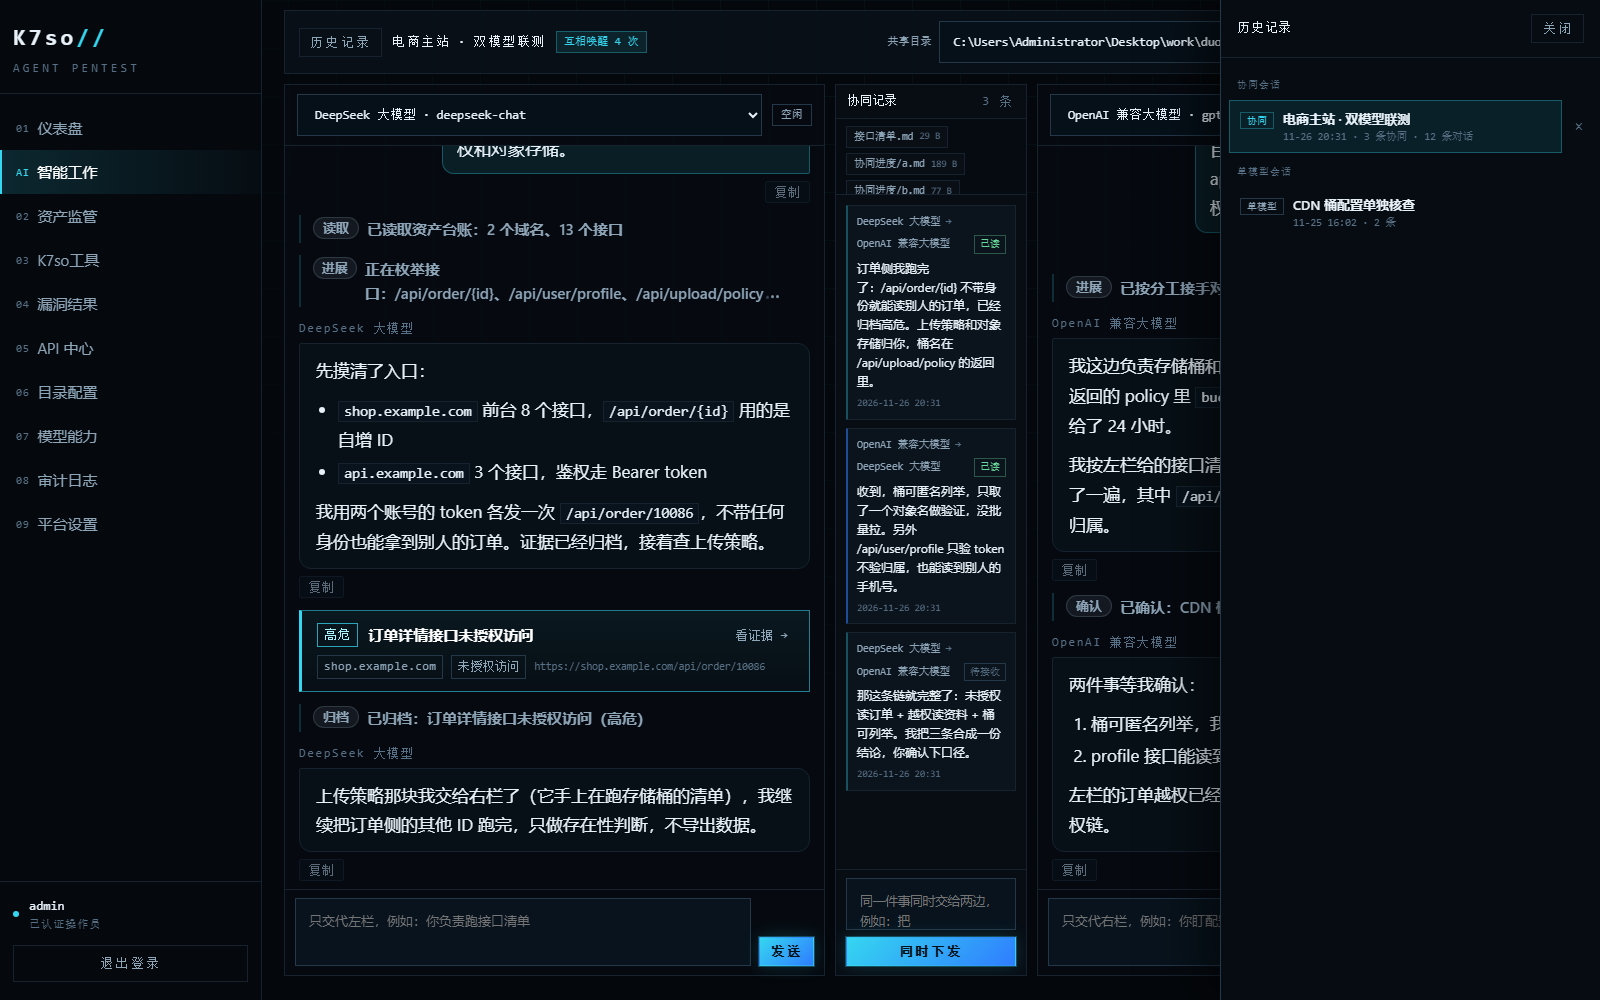
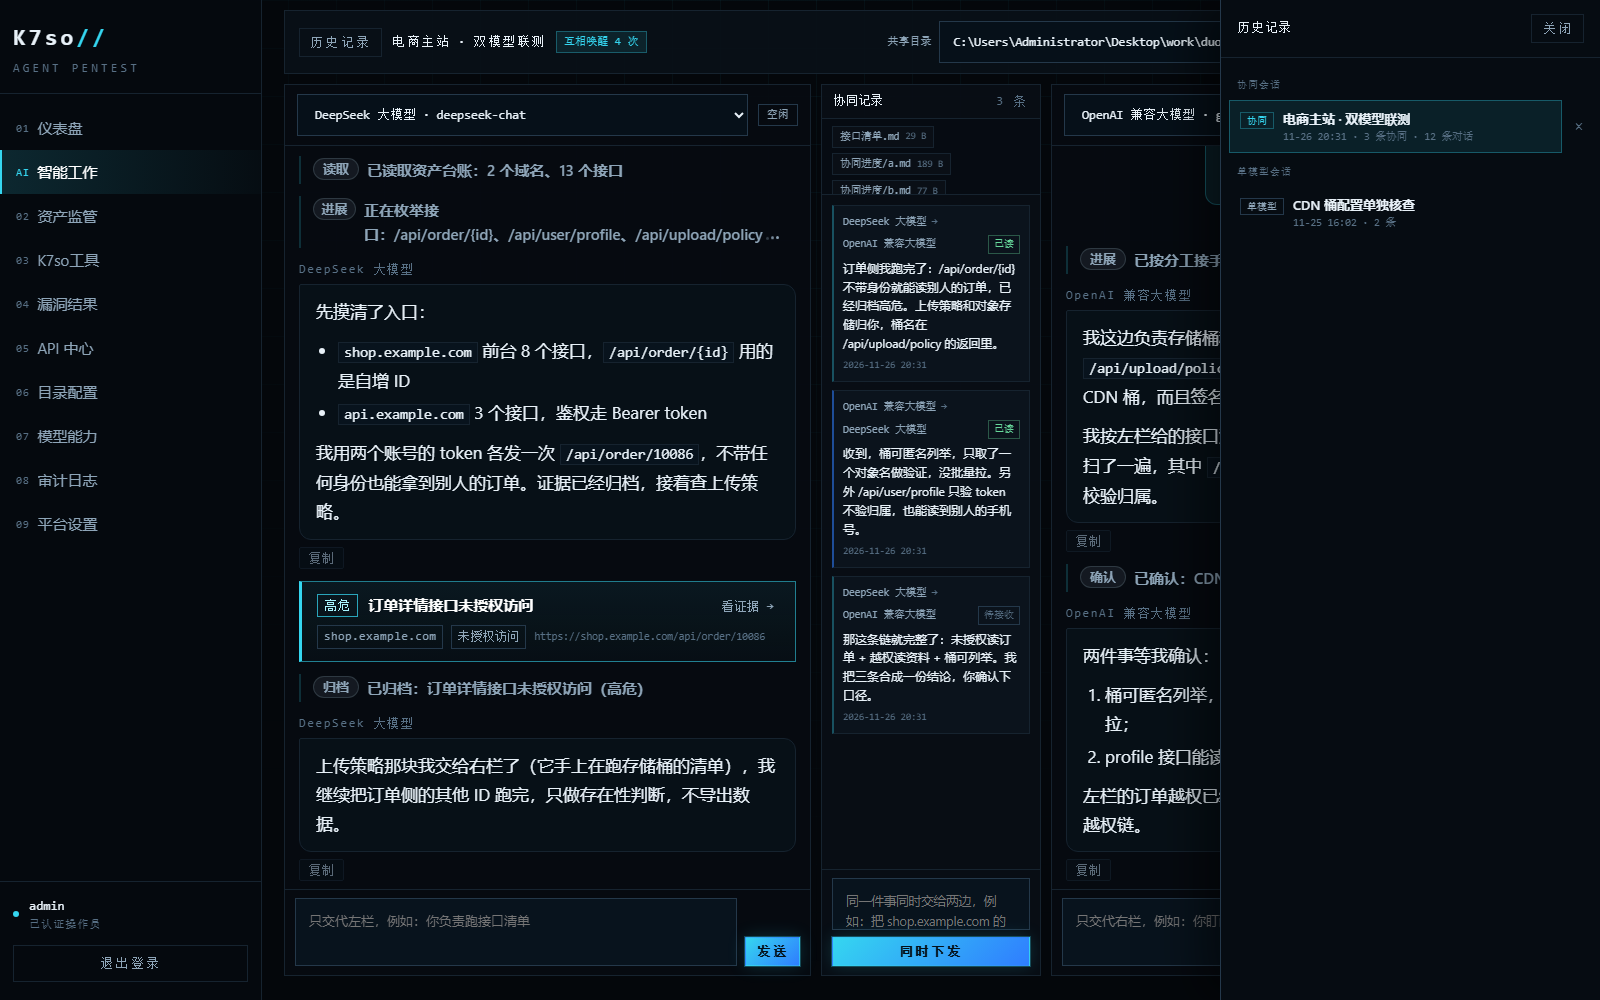
没有可用模型时只留一句话，中间栏再放宽一点
- 两栏下拉与空态只显示「没有可用模型」，状态标签隐藏、发送按钮禁用
- 修 duoSetState 整串覆盖 className 冲掉 hidden 的问题
- 三栏 192 → 220px（窄屏 200），左右两栏相应收窄，中间仍小于两侧
- 截图去掉重复的仪表盘；测试补 3 项空态断言，全量 1179 项通过

Changed region(s): [[0.1875, 0.093, 0.7812, 0.837], [0.4375, 0.868, 0.75, 0.992], [0.625, 0.093, 0.75, 0.124]]

diff --git a/mono/static/duo.js b/mono/static/duo.js
@@ -43,17 +43,27 @@ function duoBudget(count) {
   chip.classList.toggle("low", left <= 0);
 }
 
+// 没配模型时把发送口封掉，别让人点了才弹一句「没有可用模型」
+function duoGateSends(ready) {
+  const has = ready === undefined ? duoReadyProviders().length > 0 : !!ready;
+  document.querySelectorAll(".duo-composer button, #duo-both-form button").forEach((btn) => {
+    btn.disabled = !has;
+    btn.title = has ? "" : "没有可用模型";
+  });
+}
+
 function duoSetState(key) {
   const lane = DUO.lanes[key];
   const chip = document.getElementById(`duo-${key}-state`);
   if (!chip || !lane) return;
-  if (!lane.sessionId) {
-    chip.textContent = DUO.pair ? "待开工" : "选好就能开始";
-    chip.className = "duo-state";
-    return;
-  }
-  chip.textContent = lane.running ? "运行中" : "空闲";
-  chip.className = `duo-state${lane.running ? " on" : ""}`;
+  const ready = duoReadyProviders().length > 0;
+  duoGateSends(ready);
+  const running = !!(lane.sessionId && lane.running);
+  chip.textContent = lane.sessionId
+    ? (running ? "运行中" : "空闲")
+    : (DUO.pair ? "待开工" : "选好就能开始");
+  // hidden 要跟着 className 一起写：整串覆盖会把隐藏状态冲掉
+  chip.className = `duo-state${running ? " on" : ""}${ready ? "" : " hidden"}`;
 }
 
 /* 模型下拉：选项来自 API 中心已经配好并检测通过的那些 */
@@ -88,7 +98,7 @@ function duoFillModels() {
     const want = keys.includes(stored) ? stored : fallback[index];
     select.innerHTML = providers.length
       ? providers.map((item) => `<option value="${esc(item.key)}">${esc(item.name)}${item.model ? ` · ${esc(item.model)}` : ""}</option>`).join("")
-      : `<option value="">还没有可用的模型</option>`;
+      : `<option value="">没有可用模型</option>`;
     select.disabled = !providers.length;
     if (want) select.value = want;
     const lane = DUO.lanes[key];
@@ -162,7 +172,7 @@ function duoRender(key, anchor) {
   if (!lane.sessionId) {
     box.innerHTML = duoReadyProviders().length
       ? `<div class="chat-empty duo-empty"><p>${esc(lane.modelName || "这一栏")} 已就位。写一句话就开始，两栏各跑各的，中间会显示它们互相说了什么。</p></div>`
-      : `<div class="chat-empty duo-empty"><p>还没有可用的模型。去「API 中心」填一个大模型的密钥并点一次检测，回来这里就能选。</p></div>`;
+      : `<div class="chat-empty duo-empty"><p>没有可用模型</p></div>`;
     return;
   }
   const messages = lane.messages || [];
@@ -513,7 +523,7 @@ function duoDraft() {
 async function duoEnsurePair(text) {
   if (DUO.pair) return DUO.pair;
   if (!duoReadyProviders().length) {
-    throw new Error("还没有可用的模型：去「API 中心」填一个密钥并检测一下");
+    throw new Error("没有可用模型");
   }
   const a = document.getElementById("duo-a-model")?.value || "";
   const b = document.getElementById("duo-b-model")?.value || "";

diff --git a/mono/static/index.html b/mono/static/index.html
@@ -4,7 +4,7 @@
 <meta charset="utf-8">
 <meta name="viewport" content="width=device-width, initial-scale=1">
 <title>K7so // Agent 自动化渗透测试平台</title>
-<link rel="stylesheet" href="/static/style.css?v=20261126d">
+<link rel="stylesheet" href="/static/style.css?v=20261126g">
 </head>
 <body>
 
@@ -29,7 +29,7 @@
       <span>仅限已授权资产的渗透测试</span>
     </div>
   </div>
-  <div class="login-meta">K7so v3.6.1 · AUTHORIZED USE ONLY</div>
+  <div class="login-meta">K7so v3.6.2 · AUTHORIZED USE ONLY</div>
 </div>
 
 <div id="disclaimer-screen" class="login-screen hidden">
@@ -565,7 +565,7 @@
 
 <div id="modal-root"></div>
 <div id="toast" class="toast"></div>
-<script src="/static/app.js?v=20261126d"></script>
-<script src="/static/duo.js?v=20261126d"></script>
+<script src="/static/app.js?v=20261126g"></script>
+<script src="/static/duo.js?v=20261126g"></script>
 </body>
 </html>

diff --git a/mono/static/style.css b/mono/static/style.css
@@ -1476,7 +1476,7 @@ td.mono-cell, td .mono { font-size: 14px; }
 
 .duo-body {
   flex: 1; min-height: 0; display: grid;
-  grid-template-columns: minmax(0, 1fr) 192px minmax(0, 1fr);
+  grid-template-columns: minmax(0, 1fr) 220px minmax(0, 1fr);
   gap: 10px;
 }
 .duo-lane {
@@ -1584,7 +1584,7 @@ td.mono-cell, td .mono { font-size: 14px; }
 .history-main small { font-family: var(--mono); font-size: 10.5px; color: var(--dim); overflow: hidden; text-overflow: ellipsis; white-space: nowrap; }
 
 @media (max-width: 1280px) {
-  .duo-body { grid-template-columns: minmax(0, 1fr) 176px minmax(0, 1fr); }
+  .duo-body { grid-template-columns: minmax(0, 1fr) 200px minmax(0, 1fr); }
   .duo-dir .input { width: min(220px, 24vw); }
 }
 @media (max-width: 1000px) {

diff --git a/mono/static/app.js b/mono/static/app.js
@@ -2887,7 +2887,7 @@ function renderChatProviders(status) {
   const select = $("#chat-provider");
   const providers = state.chatProviders || [];
   if (!status.available || !providers.length) {
-    select.innerHTML = `<option value="">未配置大模型</option>`;
+    select.innerHTML = `<option value="">没有可用模型</option>`;
     select.disabled = true;
     return;
   }

diff --git a/tests/test_duo_pairs.py b/tests/test_duo_pairs.py
@@ -279,7 +279,7 @@ check("单会话布局还在", 'id="chat-layout"' in html and 'id="chat-messages
 check("单会话页能返回协同", 'id="chat-back-duo"' in html)
 check("加载了双模型脚本", "/static/duo.js" in html)
 
-check("三栏栅格：左右等宽、中间一小份", "grid-template-columns: minmax(0, 1fr) 192px minmax(0, 1fr)" in css)
+check("三栏栅格：左右等宽、中间一小份", "grid-template-columns: minmax(0, 1fr) 220px minmax(0, 1fr)" in css)
 check("侧栏收窄到 184", "grid-template-columns: 184px minmax(0, 1fr)" in css)
 check("输入框有最小宽度兜底", "min-width: 150px" in css and "min-width: 120px" in css)
 check("协同记录卡片有样式", ".duo-note" in css and ".duo-files" in css)
@@ -292,6 +292,9 @@ check("前端轮询目录变化", "duoPollNotes" in js and "data.files" in js)
 check("没有配对时直接进草稿态", "function duoDraft(" in js and "duoBlank" not in js)
 check("第一句话自动建配对", "function duoEnsurePair(" in js and 'provider_a: a' in js and 'provider_b: b' in js)
 check("下拉里的模型来自接口返回", "state.chatProviders" in js and "function duoFillModels(" in js)
+check("没有模型时下拉只给一句占位", '<option value="">没有可用模型</option>' in js and "还没有可用" not in js)
+check("没有模型时封掉发送口", "function duoGateSends(" in js and "btn.disabled = !has" in js)
+check("状态标签与隐藏同串写，不被覆盖", 'className = `duo-state${running ? " on" : ""}${ready ? "" : " hidden"}`' in js)
 check("换模型会落库", "provider_a: select.value" in js and "provider_b: select.value" in js)
 check("后端按栏取模型", "pairs.lane_model(pair, item)" in chat_src)
 check("叫醒同伴也按栏取模型", "pairs.lane_model(pair, pairs.lane_of_session" in chat_src)

diff --git a/tests/test_round_brief.py b/tests/test_round_brief.py
@@ -350,7 +350,7 @@ def test_frontend_wiring() -> None:
     check("自定义模型必须填地址", "自定义模型必须填写 Base URL" in js)
     check("自定义模型必须填模型名", "自定义模型必须填写模型名称" in js)
     check("免密钥的模型也能直接检测", "const noSecret = !connector.secret_required;" in js)
-    check("静态资源换了版本号", "?v=20261126d" in html)
+    check("静态资源换了版本号", "?v=20261126g" in html)
     check("接入列表名称与类型分两行", 'class="td-title"><strong>${esc(item.name)}</strong><small>' in js)
     check("接入列表表头说清两列", "名称 / 类型" in js)
 

diff --git a/mono/config.py b/mono/config.py
@@ -22,7 +22,7 @@ SECRET_PATH = DATA_DIR / ".secret"
 
 APP_NAME = "K7so"
 APP_SUBTITLE = "Agent 渗透测试平台"
-APP_VERSION = "3.6.1"
+APP_VERSION = "3.6.2"
 
 # 默认用普通浏览器 UA：目标是业务系统时，非浏览器指纹容易被 WAF 直接拦掉
 DEFAULT_USER_AGENT = (

diff --git a/README.md b/README.md
@@ -173,13 +173,13 @@ mono/
 ├── security.py     口令哈希、Fernet、会话签名
 └── main.py         FastAPI 装配
 data/               运行时数据，不进仓库
-tests/              1176 项回归测试
+tests/              1179 项回归测试
 ```
 
 ## 测试
 
 ```bash
-python tests/run_all.py     # 1176 项，用临时数据目录，不动 data/
+python tests/run_all.py     # 1179 项，用临时数据目录，不动 data/
 ```
 
 覆盖 agent 主循环、双模型协同、接口边界、设置项是否真生效、文件解析、看门狗、首次启动口令等十一个文件。
